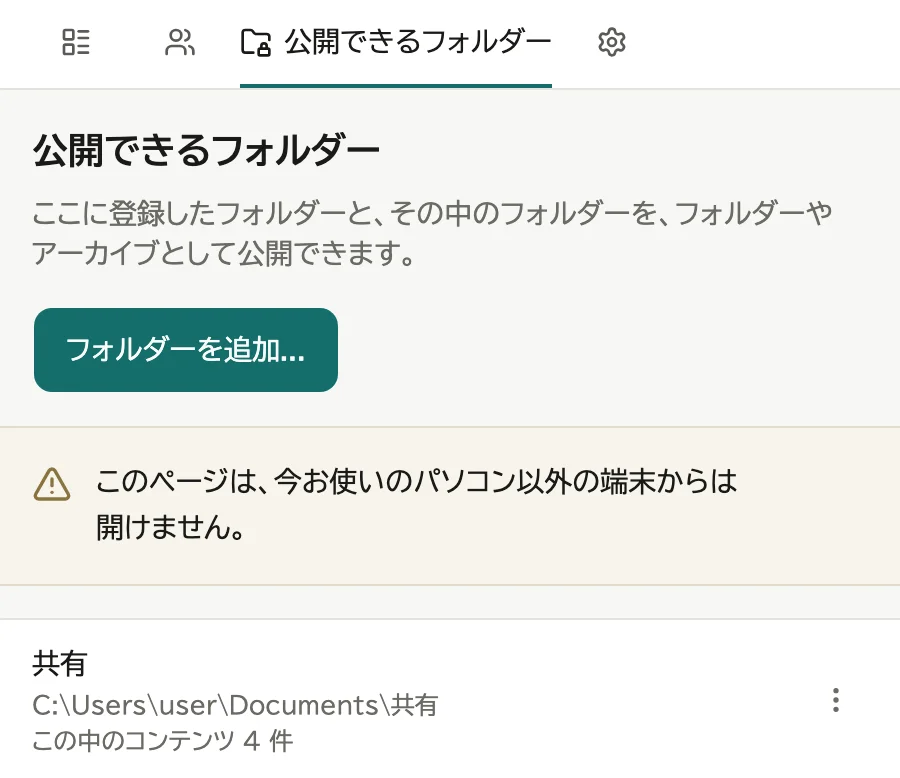
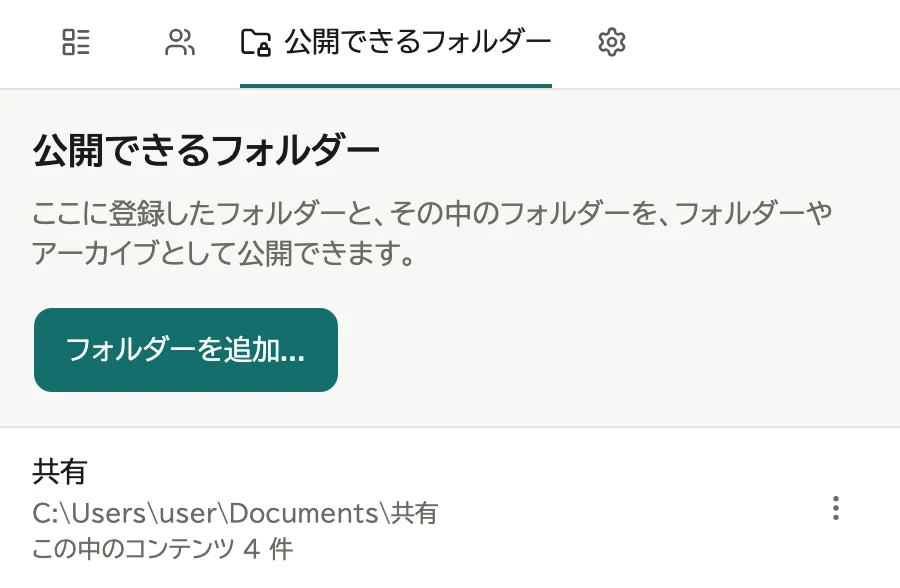
公開できるフォルダーの一覧・名前の変更・削除を、LAN の端末の管理者にも開く (#86)
* 画面の操作の動画で、共有の画面に QR コードが出るようにする

使い捨ての backend は 127.0.0.1 で待ち受けるので、共有の画面が「他の端末からはつながりません」の案内になっていた。
接続の案内の API の答えを、他の端末から開ける設置と同じものに差し替える。

* 公開できるフォルダーの一覧・名前の変更・削除を、LAN の端末の管理者にも開く

- この PC の中からだけに限るのは、追加 () とフォルダー選択の窓だけにする。
  一覧・名前の変更・削除は公開する範囲を広げないので、管理者ならどの端末からでもできる。
- 管理画面の「公開できるフォルダー」のタブを、どの端末の管理者にも出す。「フォルダーを追加...」は
  サーバーの PC から開いたときだけ出し、ほかの端末では追加できる場所の案内を出す。
- 削除の確認に、登録し直せる場所を添える (ほかの端末から開いたとき)。
- 登録を削除した後のコンテンツの場所のフルパスは、管理者ならどの端末でも出す。

* マニュアルの公開できるフォルダーの画像を、警告の帯が無い今の画面で撮り直す

* レビューの指摘: 限定を外した口を権限のテストの一覧に足し、古い文書と案内の文言を直す

* レビューの指摘: LAN から開いたときの案内に開き方を書き、削除の確認の一言を件数によらず出す

* 削除の確認の一言を短くし、テストの名前を今の決まりに合わせる

diff --git a/frontend/src/routes/admin/roots/+page.svelte b/frontend/src/routes/admin/roots/+page.svelte
@@ -1,5 +1,6 @@
 <script lang="ts">
 	import { invalidateAll } from '$app/navigation';
+	import { page } from '$app/state';
 	import { client } from '$lib/api/client';
 	import { GENERIC_ERROR_MESSAGE, errorMessage } from '$lib/api/errors';
 	import { ErrorDialogState } from '$lib/error-dialog-state.svelte';
@@ -7,6 +8,7 @@
 	import { formatNumber } from '$lib/format';
 	import { listClass, listItemClass } from '$lib/list-row';
 	import { pageTitle } from '$lib/page-title';
+	import { canAddRoots } from '$lib/root-location';
 	import { adminPageClass, pageHeadingTextClass } from '$lib/page-layout';
 	import * as m from '$lib/paraglide/messages.js';
 	import { Button } from '$lib/components/ui/button';
@@ -17,7 +19,6 @@
 	import ConfirmDialog from '$lib/components/confirm-dialog.svelte';
 	import ErrorDialog from '$lib/components/error-dialog.svelte';
 	import RowActionsMenu from '$lib/components/row-actions-menu.svelte';
-	import WarningBand from '$lib/components/warning-band.svelte';
 	import * as DropdownMenu from '$lib/components/ui/dropdown-menu';
 	import type { PageProps } from './$types';
 	import type { components } from '$lib/api/schema';
@@ -25,6 +26,9 @@
 	type Root = components['schemas']['RootResponse'];
 
 	let { data }: PageProps = $props();
+
+	// 追加は OS のフォルダー選択の窓で選ぶので、サーバーの PC から開いたときだけ出す (→ docs/folders.md「選び方」)。
+	let canAdd = $derived(canAddRoots(page.url.hostname));
 
 	// 窓を開いてから、選ばれたフォルダーを登録し終えるまで。
 	let adding = $state(false);
@@ -131,17 +135,19 @@
 			<h1 class={pageHeadingTextClass}>{m.admin_roots_title()}</h1>
 			<p class="text-sm text-muted-foreground">{m.admin_roots_description()}</p>
 		</div>
-		<LoadingButton loading={adding} onclick={handleAdd}>{m.admin_roots_add()}</LoadingButton>
+		{#if canAdd}
+			<LoadingButton loading={adding} onclick={handleAdd}>{m.admin_roots_add()}</LoadingButton>
+		{/if}
 	</div>
-	<!-- 窓はブラウザーの外に出るので、どこで選ぶのかを添える。 -->
-	<p class={['text-sm text-muted-foreground', adding && 'mt-2']} aria-live="polite">
-		{adding ? m.admin_roots_picking() : ''}
-	</p>
+	{#if canAdd}
+		<!-- 窓はブラウザーの外に出るので、どこで選ぶのかを添える。 -->
+		<p class={['text-sm text-muted-foreground', adding && 'mt-2']} aria-live="polite">
+			{adding ? m.admin_roots_picking() : ''}
+		</p>
+	{:else}
+		<p class="mt-2 text-sm text-muted-foreground">{m.admin_roots_add_local_only()}</p>
+	{/if}
 </div>
-
-<WarningBand class="mb-4 md:px-6">
-	<p class="text-sm leading-relaxed">{m.admin_roots_local_only_notice()}</p>
-</WarningBand>
 
 {#if data.roots.length === 0}
 	<p class="px-4 text-sm text-muted-foreground md:px-6">{m.admin_roots_empty()}</p>
@@ -221,6 +227,9 @@
 		{m.admin_roots_delete_confirm_contents_note({
 			count: formatNumber(deletingRoot.removedContentCount)
 		})}
+	{/if}
+	{#if !canAdd}
+		{m.admin_roots_delete_confirm_local_note()}
 	{/if}
 </ConfirmDialog>
 

diff --git a/frontend/src/lib/root-location.ts b/frontend/src/lib/root-location.ts
@@ -5,12 +5,10 @@
  * 画面に出すだけの文字列で、パスとしては使わない。API に渡すのは絶対パスのまま。
  */
 import type { components } from '$lib/api/schema';
-import { isAdmin } from '$lib/auth';
 import { isLoopbackHost } from '$lib/loopback';
 import * as m from '$lib/paraglide/messages.js';
 
 type Content = components['schemas']['AdminContentResponse'];
-type User = components['schemas']['UserResponse'];
 
 /** 階層の名前の区切り。コンテンツの親グループを並べるときも同じ見た目にする。 */
 export const LOCATION_SEPARATOR = ' / ';
@@ -28,20 +26,20 @@ export function joinLocationLabels(labels: string[]): string {
 }
 
 /**
- * 「公開できるフォルダー」を登録・削除できる人か。サーバーの PC から開いた管理者
+ * 「公開できるフォルダー」を追加できる場所か。サーバーの PC から開いたときだけ
  * (→ docs/folders.md「公開できるフォルダー」)。画面の出し分けにだけ使い、実際の可否はサーバーが決める。
  */
-export function canManageRoots(user: User | null | undefined, hostname: string): boolean {
-	return isAdmin(user) && isLoopbackHost(hostname);
+export function canAddRoots(hostname: string): boolean {
+	return isLoopbackHost(hostname);
 }
 
 /**
  * コンテンツの場所 (`path`) の出し方。
  *
  * - 登録中の公開できるフォルダーの中: 「名前 / その先」
- * - 公開できるフォルダーの登録を削除した後: 登録・削除できる人にはフルパス、
+ * - 公開できるフォルダーの登録を削除した後: 管理者にはフルパス、
  *   それ以外には「(存在しない公開フォルダー) / その先」。起点のパスは見せない
- * - どの公開できるフォルダーの記録にも含まれない: 登録・削除できる人にはフルパス、
+ * - どの公開できるフォルダーの記録にも含まれない: 管理者にはフルパス、
  *   それ以外には「(存在しない公開フォルダー)」だけ (どこまでが起点か分からないため)
  */
 export function contentPathLabel(content: Content, canSeeFullPath: boolean): string | null {

diff --git a/frontend/src/lib/root-location.spec.ts b/frontend/src/lib/root-location.spec.ts
@@ -1,6 +1,6 @@
 import { describe, expect, it, vi } from 'vitest';
 import type { components } from '$lib/api/schema';
-import { canManageRoots, contentPathLabel, rootLocationLabel } from './root-location';
+import { canAddRoots, contentPathLabel, rootLocationLabel } from './root-location';
 
 vi.mock('$lib/paraglide/messages.js', () => ({
 	contents_path_root_deleted: () => '(存在しない公開フォルダー)'
@@ -48,12 +48,12 @@ describe('contentPathLabel', () => {
 		expect(contentPathLabel(registered, true)).toBe('教材 / 英検');
 	});
 
-	it('hides the root path of a deleted root unless the viewer can manage roots', () => {
+	it('hides the root path of a deleted root unless the viewer is an admin', () => {
 		expect(contentPathLabel(deleted, false)).toBe('(存在しない公開フォルダー) / 英検');
 		expect(contentPathLabel(deleted, true)).toBe('/srv/教材/英検');
 	});
 
-	it('shows nothing of the path outside any root record unless the viewer can manage roots', () => {
+	it('shows nothing of the path outside any root record unless the viewer is an admin', () => {
 		expect(contentPathLabel(unknown, false)).toBe('(存在しない公開フォルダー)');
 		expect(contentPathLabel(unknown, true)).toBe('/srv/教材/英検');
 	});
@@ -63,10 +63,9 @@ describe('contentPathLabel', () => {
 	});
 });
 
-describe('canManageRoots', () => {
-	it('is true only for an admin on the server PC', () => {
-		expect(canManageRoots({ role: 'admin' } as never, '127.0.0.1')).toBe(true);
-		expect(canManageRoots({ role: 'admin' } as never, '192.168.1.5')).toBe(false);
-		expect(canManageRoots({ role: 'user' } as never, '127.0.0.1')).toBe(false);
+describe('canAddRoots', () => {
+	it('is true only on the server PC', () => {
+		expect(canAddRoots('127.0.0.1')).toBe(true);
+		expect(canAddRoots('192.168.1.5')).toBe(false);
 	});
 });

diff --git a/frontend/src/lib/api/schema.d.ts b/frontend/src/lib/api/schema.d.ts
@@ -2710,15 +2710,6 @@ export interface operations {
                     "application/json": components["schemas"]["ErrorResponse"];
                 };
             };
-            /** @description サーバーのPC以外からの要求 */
-            404: {
-                headers: {
-                    [name: string]: unknown;
-                };
-                content: {
-                    "application/json": components["schemas"]["ErrorResponse"];
-                };
-            };
         };
     };
     create_root: {
@@ -2879,7 +2870,7 @@ export interface operations {
                     "application/json": components["schemas"]["ErrorResponse"];
                 };
             };
-            /** @description サーバーのPC以外からの要求・存在しない */
+            /** @description 存在しない */
             404: {
                 headers: {
                     [name: string]: unknown;
@@ -2935,7 +2926,7 @@ export interface operations {
                     "application/json": components["schemas"]["ErrorResponse"];
                 };
             };
-            /** @description サーバーのPC以外からの要求・存在しない */
+            /** @description 存在しない */
             404: {
                 headers: {
                     [name: string]: unknown;

diff --git a/frontend/src/routes/admin/+layout.svelte b/frontend/src/routes/admin/+layout.svelte
@@ -8,7 +8,6 @@
 	import { isAdmin } from '$lib/auth';
 	import { adminNavTabListClass, navTabClass } from '$lib/nav-tabs';
 	import * as m from '$lib/paraglide/messages.js';
-	import { canManageRoots } from '$lib/root-location';
 	import { Button } from '$lib/components/ui/button';
 	import RecoveryCodeDialog from '$lib/components/recovery-code-dialog.svelte';
 	import WarningBand from '$lib/components/warning-band.svelte';
@@ -23,14 +22,10 @@
 	);
 	let recoveryCodeOpen = $state(false);
 
-	// 「公開できるフォルダー」はサーバーの PC からしか触れない (→ docs/folders.md「公開できるフォルダー」)。
-	// LAN の端末では API が 404 を返すので、入り口も出さない。
 	let tabs = $derived([
 		{ href: resolve('/admin/contents'), label: m.admin_contents_nav_title, icon: LayoutListIcon },
 		{ href: resolve('/admin/users'), label: m.admin_users_nav_title, icon: UsersIcon },
-		...(canManageRoots(page.data.user, page.url.hostname)
-			? [{ href: resolve('/admin/roots'), label: m.admin_roots_nav_title, icon: FolderLockIcon }]
-			: []),
+		{ href: resolve('/admin/roots'), label: m.admin_roots_nav_title, icon: FolderLockIcon },
 		{ href: resolve('/admin/settings'), label: m.admin_settings_nav_title, icon: SettingsIcon }
 	]);
 </script>

diff --git a/frontend/src/routes/admin/roots/+page.ts b/frontend/src/routes/admin/roots/+page.ts
@@ -1,20 +1,11 @@
-import { error } from '@sveltejs/kit';
 import { client } from '$lib/api/client';
 import { fetchOrError } from '$lib/api/load';
-import { isLoopbackHost } from '$lib/loopback';
 import * as m from '$lib/paraglide/messages.js';
 import type { PageLoad } from './$types';
 
-// 可否を決めるのは API 側 (admin かつサーバーの PC からの要求、→ docs/folders.md「公開できるフォルダー」)。
-// LAN の端末から開くと API は 404 になる。タブもその場合は出さない (+layout.svelte)。
-// ブックマークなどで開かれたときは、消えたページと取り違えないよう、ここで開けない理由を出す。
-// 画面は Host で LAN と分かっているので、伏せる対象 (API の口) を明かすことにはならない。
+// admin 限定であることは API が確かめる。追加だけは、サーバーの PC から開いたときに限る (+page.svelte)。
 export const load: PageLoad = async ({ parent, url }) => {
 	await parent();
-	if (!isLoopbackHost(url.hostname)) {
-		error(403, m.admin_roots_server_only());
-	}
-
 	const roots = await fetchOrError(
 		client.GET('/api/v1/admin/roots'),
 		m.admin_roots_fetch_failed(),

diff --git a/frontend/src/routes/admin/contents/[id]/+layout.svelte b/frontend/src/routes/admin/contents/[id]/+layout.svelte
@@ -1,12 +1,13 @@
 <script lang="ts">
 	import { pageHeadingTextClass } from '$lib/page-layout';
 	import { page } from '$app/state';
+	import { isAdmin } from '$lib/auth';
 	import { resolve } from '$app/paths';
 	import { navTabClass, navTabListClass } from '$lib/nav-tabs';
 	import { pageTitle } from '$lib/page-title';
 	import { contentTypeLabel } from '$lib/content-labels';
 	import { contentTypeIcon } from '$lib/content-types';
-	import { canManageRoots, contentPathLabel } from '$lib/root-location';
+	import { contentPathLabel } from '$lib/root-location';
 	import * as m from '$lib/paraglide/messages.js';
 	import ChevronLeftIcon from '@lucide/svelte/icons/chevron-left';
 	import EyeIcon from '@lucide/svelte/icons/eye';
@@ -32,9 +33,7 @@
 	});
 
 	let location = $derived(
-		content.url ??
-			contentPathLabel(content, canManageRoots(page.data.user, page.url.hostname)) ??
-			content.fileName
+		content.url ?? contentPathLabel(content, isAdmin(page.data.user)) ?? content.fileName
 	);
 	let TypeIcon = $derived(contentTypeIcon(content.type));
 	// 見るだけの理由を、どのタブでも見出しの下で示す (→ docs/ui.md「UI 全般」)。

diff --git a/frontend/src/routes/admin/contents/+page.svelte b/frontend/src/routes/admin/contents/+page.svelte
@@ -37,7 +37,7 @@
 	import * as Dialog from '$lib/components/ui/dialog';
 	import * as DropdownMenu from '$lib/components/ui/dropdown-menu';
 	import * as Table from '$lib/components/ui/table';
-	import { canManageRoots, contentPathLabel } from '$lib/root-location';
+	import { contentPathLabel } from '$lib/root-location';
 	import ConfirmRegister from '$lib/components/confirm-register.svelte';
 	import ContentForm from '$lib/components/content-form.svelte';
 	import ContentTypeChooser from '$lib/components/content-type-chooser.svelte';
@@ -97,7 +97,7 @@
 	let saving = $state(false);
 
 	let currentUserId = $derived(page.data.user?.id);
-	let canSeeFullPath = $derived(canManageRoots(page.data.user, page.url.hostname));
+	let canSeeFullPath = $derived(isAdmin(page.data.user));
 
 	// 種別による制限は持たない。ログイン済みなら全部作れる (→ docs/access.md「ロールと操作」)。
 	const creatableTypes: ContentType[] = ['link', 'file', 'folder', 'archive', 'group'];

diff --git a/frontend/src/routes/admin/contents/[id]/+page.svelte b/frontend/src/routes/admin/contents/[id]/+page.svelte
@@ -4,7 +4,6 @@
 	import { toast } from 'svelte-sonner';
 	import { beforeNavigate, goto, invalidateAll } from '$app/navigation';
 	import { page } from '$app/state';
-	import { canManageRoots } from '$lib/root-location';
 	import { isAdmin } from '$lib/auth';
 	import { client } from '$lib/api/client';
 	import { FormDirtyState } from '$lib/form-dirty.svelte';
@@ -38,7 +37,7 @@
 	let content = $derived(data.content);
 	let contentById = $derived(byIdMap(data.contents));
 	let currentUserId = $derived(page.data.user?.id);
-	let canSeeFullPath = $derived(canManageRoots(page.data.user, page.url.hostname));
+	let canSeeFullPath = $derived(isAdmin(page.data.user));
 	let editable = $derived(data.editable);
 
 	// 別のコンテンツへ移るとレイアウトの `{#key}` でページごと作り直すので、読み込みは初回だけでよい。

diff --git a/frontend/scripts/flip-videos.ts b/frontend/scripts/flip-videos.ts
@@ -130,6 +130,11 @@ async function shootStory(
 			locale: 'ja-JP'
 		});
 		await context.addCookies([{ name: 'WEBLAV_LOCALE', value: 'ja', url: backend.baseURL }]);
+		// 使い捨ての backend は 127.0.0.1 で待ち受けるので、そのままだと共有の画面が QR コードでなく
+		// 「他の端末からはつながりません」の案内になる。他の端末から開ける設置と同じ答えを返させる。
+		await context.route('**/api/v1/connection-info', (route) =>
+			route.fulfill({ json: { mdnsHostname: 'home-pc.local', port: 3000 } })
+		);
 		if (account && !story.startsLoggedOut) {
 			const res = await context.request.post('/api/v1/auth/login', { data: account });
 			if (!res.ok()) throw new Error(`${role} でログインできませんでした (${res.status()})`);

diff --git a/frontend/e2e/server-location.ts b/frontend/e2e/server-location.ts
@@ -1,6 +1,6 @@
 // e2e を当てているサーバーが、このマシンで動いているか。
 //
-// 公開できるフォルダー・セットアップの口はサーバーの PC からしか通らない (→ docs/access.md「初回セットアップ」・docs/folders.md「公開できるフォルダー」)。
+// 公開できるフォルダーの追加・セットアップの口はサーバーの PC からしか通らない (→ docs/access.md「初回セットアップ」・docs/folders.md「公開できるフォルダー」)。
 // 別のマシン (別の PC のリリース版など) に当てるときは、それらと、フィクスチャの木を
 // 登録して使うテストを飛ばし、残りを流す。
 import { isLoopbackHost } from '../src/lib/loopback';

diff --git a/frontend/src/lib/content-form.svelte.ts b/frontend/src/lib/content-form.svelte.ts
@@ -287,7 +287,7 @@ export class ContentFormState {
 
 	/**
 	 * 既存のコンテンツを読み込む。`canSeeFullPath` は、場所をフルパスで出してよい人か
-	 * (→ `$lib/root-location` の `canManageRoots`)。
+	 * (管理者。→ docs/folders.md「公開できるフォルダー」)。
 	 */
 	loadFrom(content: Content, canSeeFullPath: boolean): void {
 		this.type = content.type;
